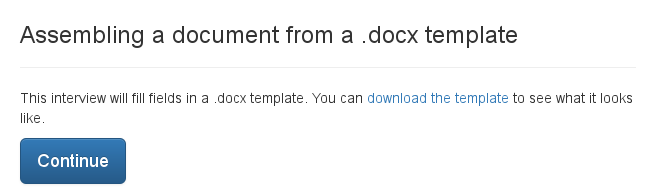
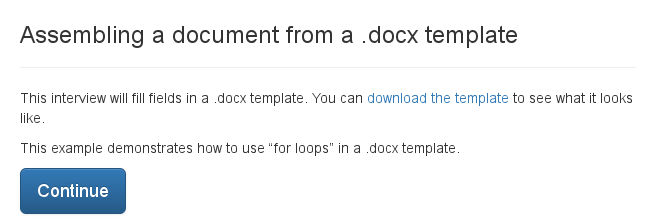
Jinja2 example

diff --git a/_docs/documents.md b/_docs/documents.md
@@ -573,7 +573,8 @@ example above by the mapping of `signature` to `${ user.signature }`:
 the variable `user.signature` is a graphics image (an image of the
 user's signature).  You can also use the `[FILE ...]` markup syntax to
 [insert an image].  However, do not mix image references with other
-text, because the other text will be lost.
+text inside of a single field, because the other text will be lost.
+Also, only include one image per field.
 
 When you use `docx template file`, the user is provided with both a
 PDF file and a DOCX file.  The PDF file is generated by converting the
@@ -612,32 +613,8 @@ attachment:
 {% endhighlight %}
 
 You will then have to use appropriate [Jinja2] syntax in order to
-process this data structure.
-
-Note that **docassemble** does not pass interview variables directly
-to the Word file.  You cannot pass the variable `user` as one of the
-`fields` and expect to be able to use `{% raw %}{{
-user.name.first }}{% endraw %}` and `{% raw %}{{
-user.name.last }}{% endraw %}` in your Word file.  You have to be
-more specific.
-
-The [`python-docx-template`] package allows you to use variables made
-up of attributes, but it expects that the information will be provided
-to it as a [Python dict] rather than as a [Python] object.  If you
-wanted to use variables like `{% raw %}{{ user.name.first }}{% endraw
-%}` in your Word file, you would need to pass the values this way:
-
-{% highlight yaml %}
-fields:
-  user:
-    name:
-      first: ${ user.name.first }
-      last: ${ user.name.last }
-  favorite_fruit: ${ favorite_fruit }
-{% endhighlight %}
-
-For more information, see the documentation of
-[`python-docx-template`].
+process this data structure.  For more information, see the
+documentation of [`python-docx-template`].
 
 ## <a name="template code"></a>Passing values using code
 
@@ -798,6 +775,12 @@ to pass variables to a .docx template.  In order to pass variables in
 "raw" form using `field code` or `code`, you can wrap the code in the
 [`raw()`] function.  For more information, see the
 [documentation for the `raw()` function].
+
+Here is an example that demonstrates how to pass **docassemble**
+[objects] to a .docx template and to use [Jinja2] templating code to
+use [`DAList`] and [`DADict`] objects.
+
+{% include side-by-side.html demo="docx-jinja2-demo" %}
 
 ## <a name="list field names"></a>How to get a list of field names in a PDF or DOCX file
 
@@ -988,3 +971,5 @@ Including `allow emailing: False` will disable this:
 [documentation for the `raw()` function]: {{ site.baseurl }}/docs/functions.html#raw
 [`raw()`]: {{ site.baseurl }}/docs/functions.html#raw
 [`DAList`]: {{ site.baseurl }}/docs/objects.html#DAList
+[`DADict`]: {{ site.baseurl }}/docs/objects.html#DADict
+[`.comma_and_list()`]: {{ site.baseurl }}/docs/objects.html#DAList.comma_and_list
